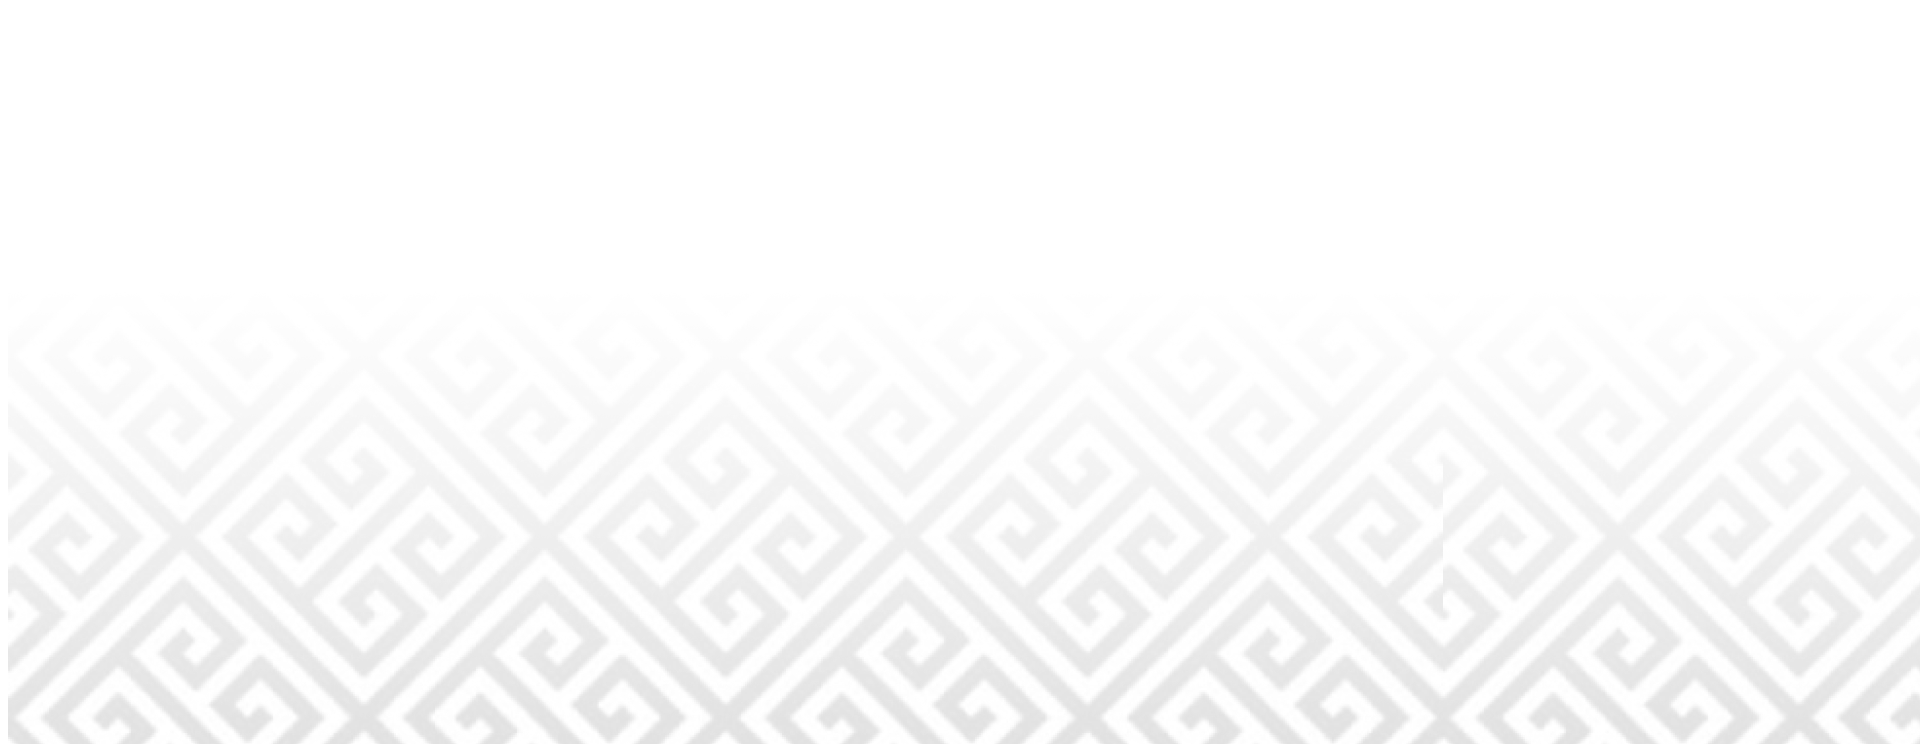
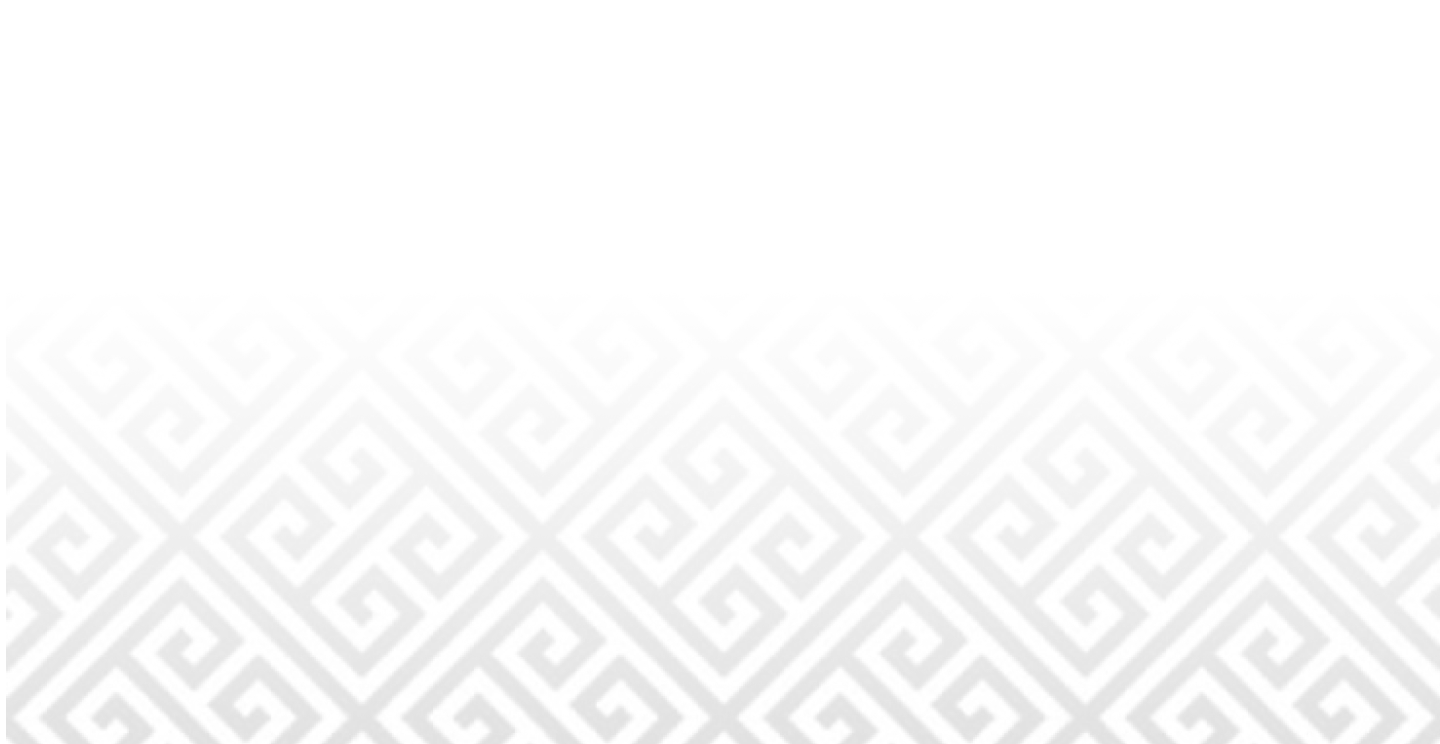
fix hero-pattern image

diff --git a/src/components/specific/Beranda/Hero.jsx b/src/components/specific/Beranda/Hero.jsx
@@ -19,7 +19,7 @@ export default function Hero(){
           </div>
           <div className="carousel-inner">
             <div className="carousel-item active">
-              <img src="./public/images/banten-hero-bg.jpg" className="d-block  object-cover min-h-[832px]" alt="Slide 1" />
+              <img src="./public/images/banten-hero-bg.jpg" className="d-block  object-cover min-h-[832px] w-full" alt="Slide 1" />
             </div>
             <div className="carousel-item">
               <img src="./public/images/banten-hero-bg2.png" className="d-block  object-cover min-h-[832px]" alt="Slide 2" />
